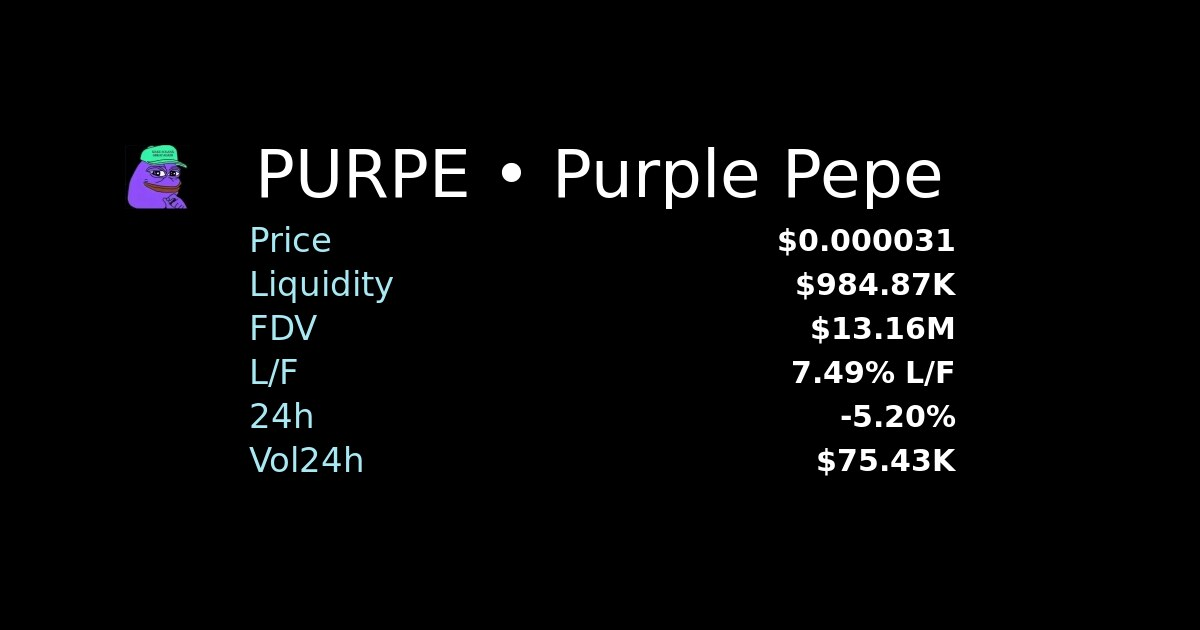
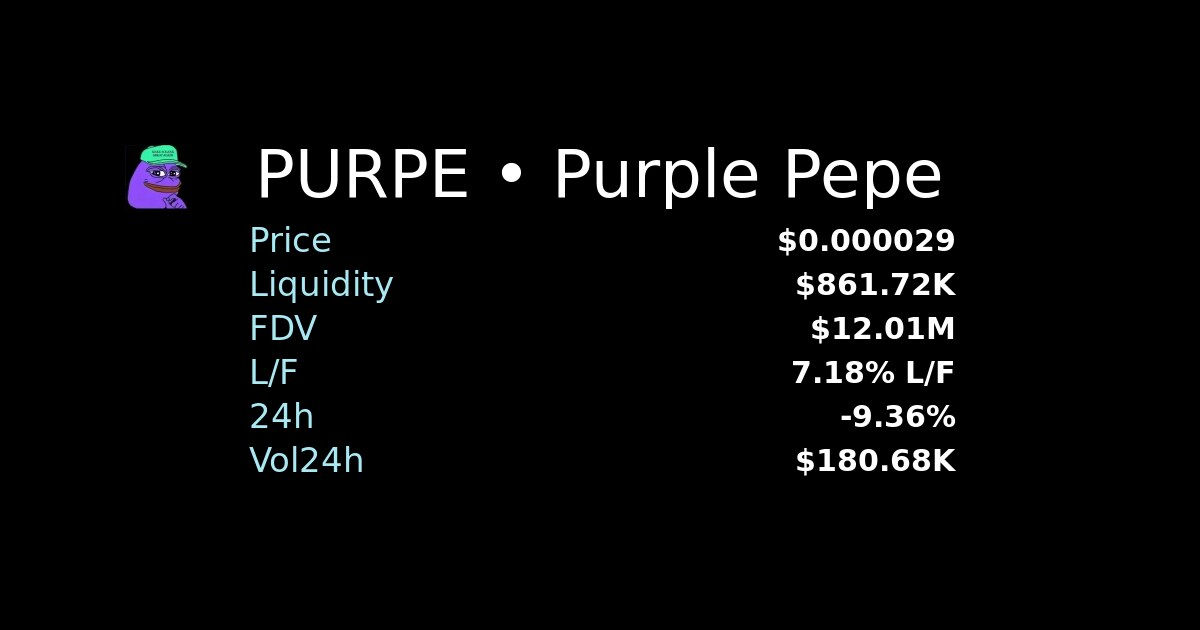
chore: update sitemap & token pages

diff --git a/token/HBoNJ5v8g71s2boRivrHnfSB5MVPLDHHyVjruPfhGkvL/index.html b/token/HBoNJ5v8g71s2boRivrHnfSB5MVPLDHHyVjruPfhGkvL/index.html
@@ -4,14 +4,14 @@
     <meta charset="utf-8" />
     <meta name="viewport" content="width=device-width,initial-scale=1" />
     <title>PURPE on Solana</title>
-    <meta name="description" content="Purple Pepe • Price: $0.000031 • Liquidity: $984.87K" />
+    <meta name="description" content="Purple Pepe • Price: $0.000029 • Liquidity: $861.72K" />
     <meta name="author" content="builders-toronto" />
     <meta name="keywords" content="solana, memecoin, bonk, wif, dog, inu, pepe, cat, meme, ponk, samo, purry, purr, kitty, meow, woof, frog, snek, toad, bob, dino, monke, monkey, ape, corgi, floki, elon" />
 
     <!-- OG -->
     <meta property="og:type" content="website" />
     <meta property="og:title" content="PURPE on Solana" />
-    <meta property="og:description" content="Purple Pepe • Price: $0.000031 • Liquidity: $984.87K" />
+    <meta property="og:description" content="Purple Pepe • Price: $0.000029 • Liquidity: $861.72K" />
     <meta property="og:url" content="https://fdv.lol/token/HBoNJ5v8g71s2boRivrHnfSB5MVPLDHHyVjruPfhGkvL" />
     <meta property="og:image" content="https://fdv.lol/token/HBoNJ5v8g71s2boRivrHnfSB5MVPLDHHyVjruPfhGkvL/og.jpg" />
     <meta property="og:image:width" content="1200" />
@@ -21,7 +21,7 @@
     <!-- Twitter -->
     <meta name="twitter:card" content="summary_large_image" />
     <meta name="twitter:title" content="PURPE on Solana" />
-    <meta name="twitter:description" content="Purple Pepe • Price: $0.000031 • Liquidity: $984.87K" />
+    <meta name="twitter:description" content="Purple Pepe • Price: $0.000029 • Liquidity: $861.72K" />
     <meta name="twitter:image" content="https://fdv.lol/token/HBoNJ5v8g71s2boRivrHnfSB5MVPLDHHyVjruPfhGkvL/og.jpg" />
 
     <link rel="icon" type="image/png" href="/src/assets/images/icons/fdv.lol.ico" />
@@ -35,7 +35,7 @@
       "@type": "WebSite",
       "name": "PURPE on Solana",
       "url": "https://fdv.lol/token/HBoNJ5v8g71s2boRivrHnfSB5MVPLDHHyVjruPfhGkvL",
-      "description": "Purple Pepe • Price: $0.000031 • Liquidity: $984.87K",
+      "description": "Purple Pepe • Price: $0.000029 • Liquidity: $861.72K",
       "keywords": [
         "solana",
         "memecoin",
